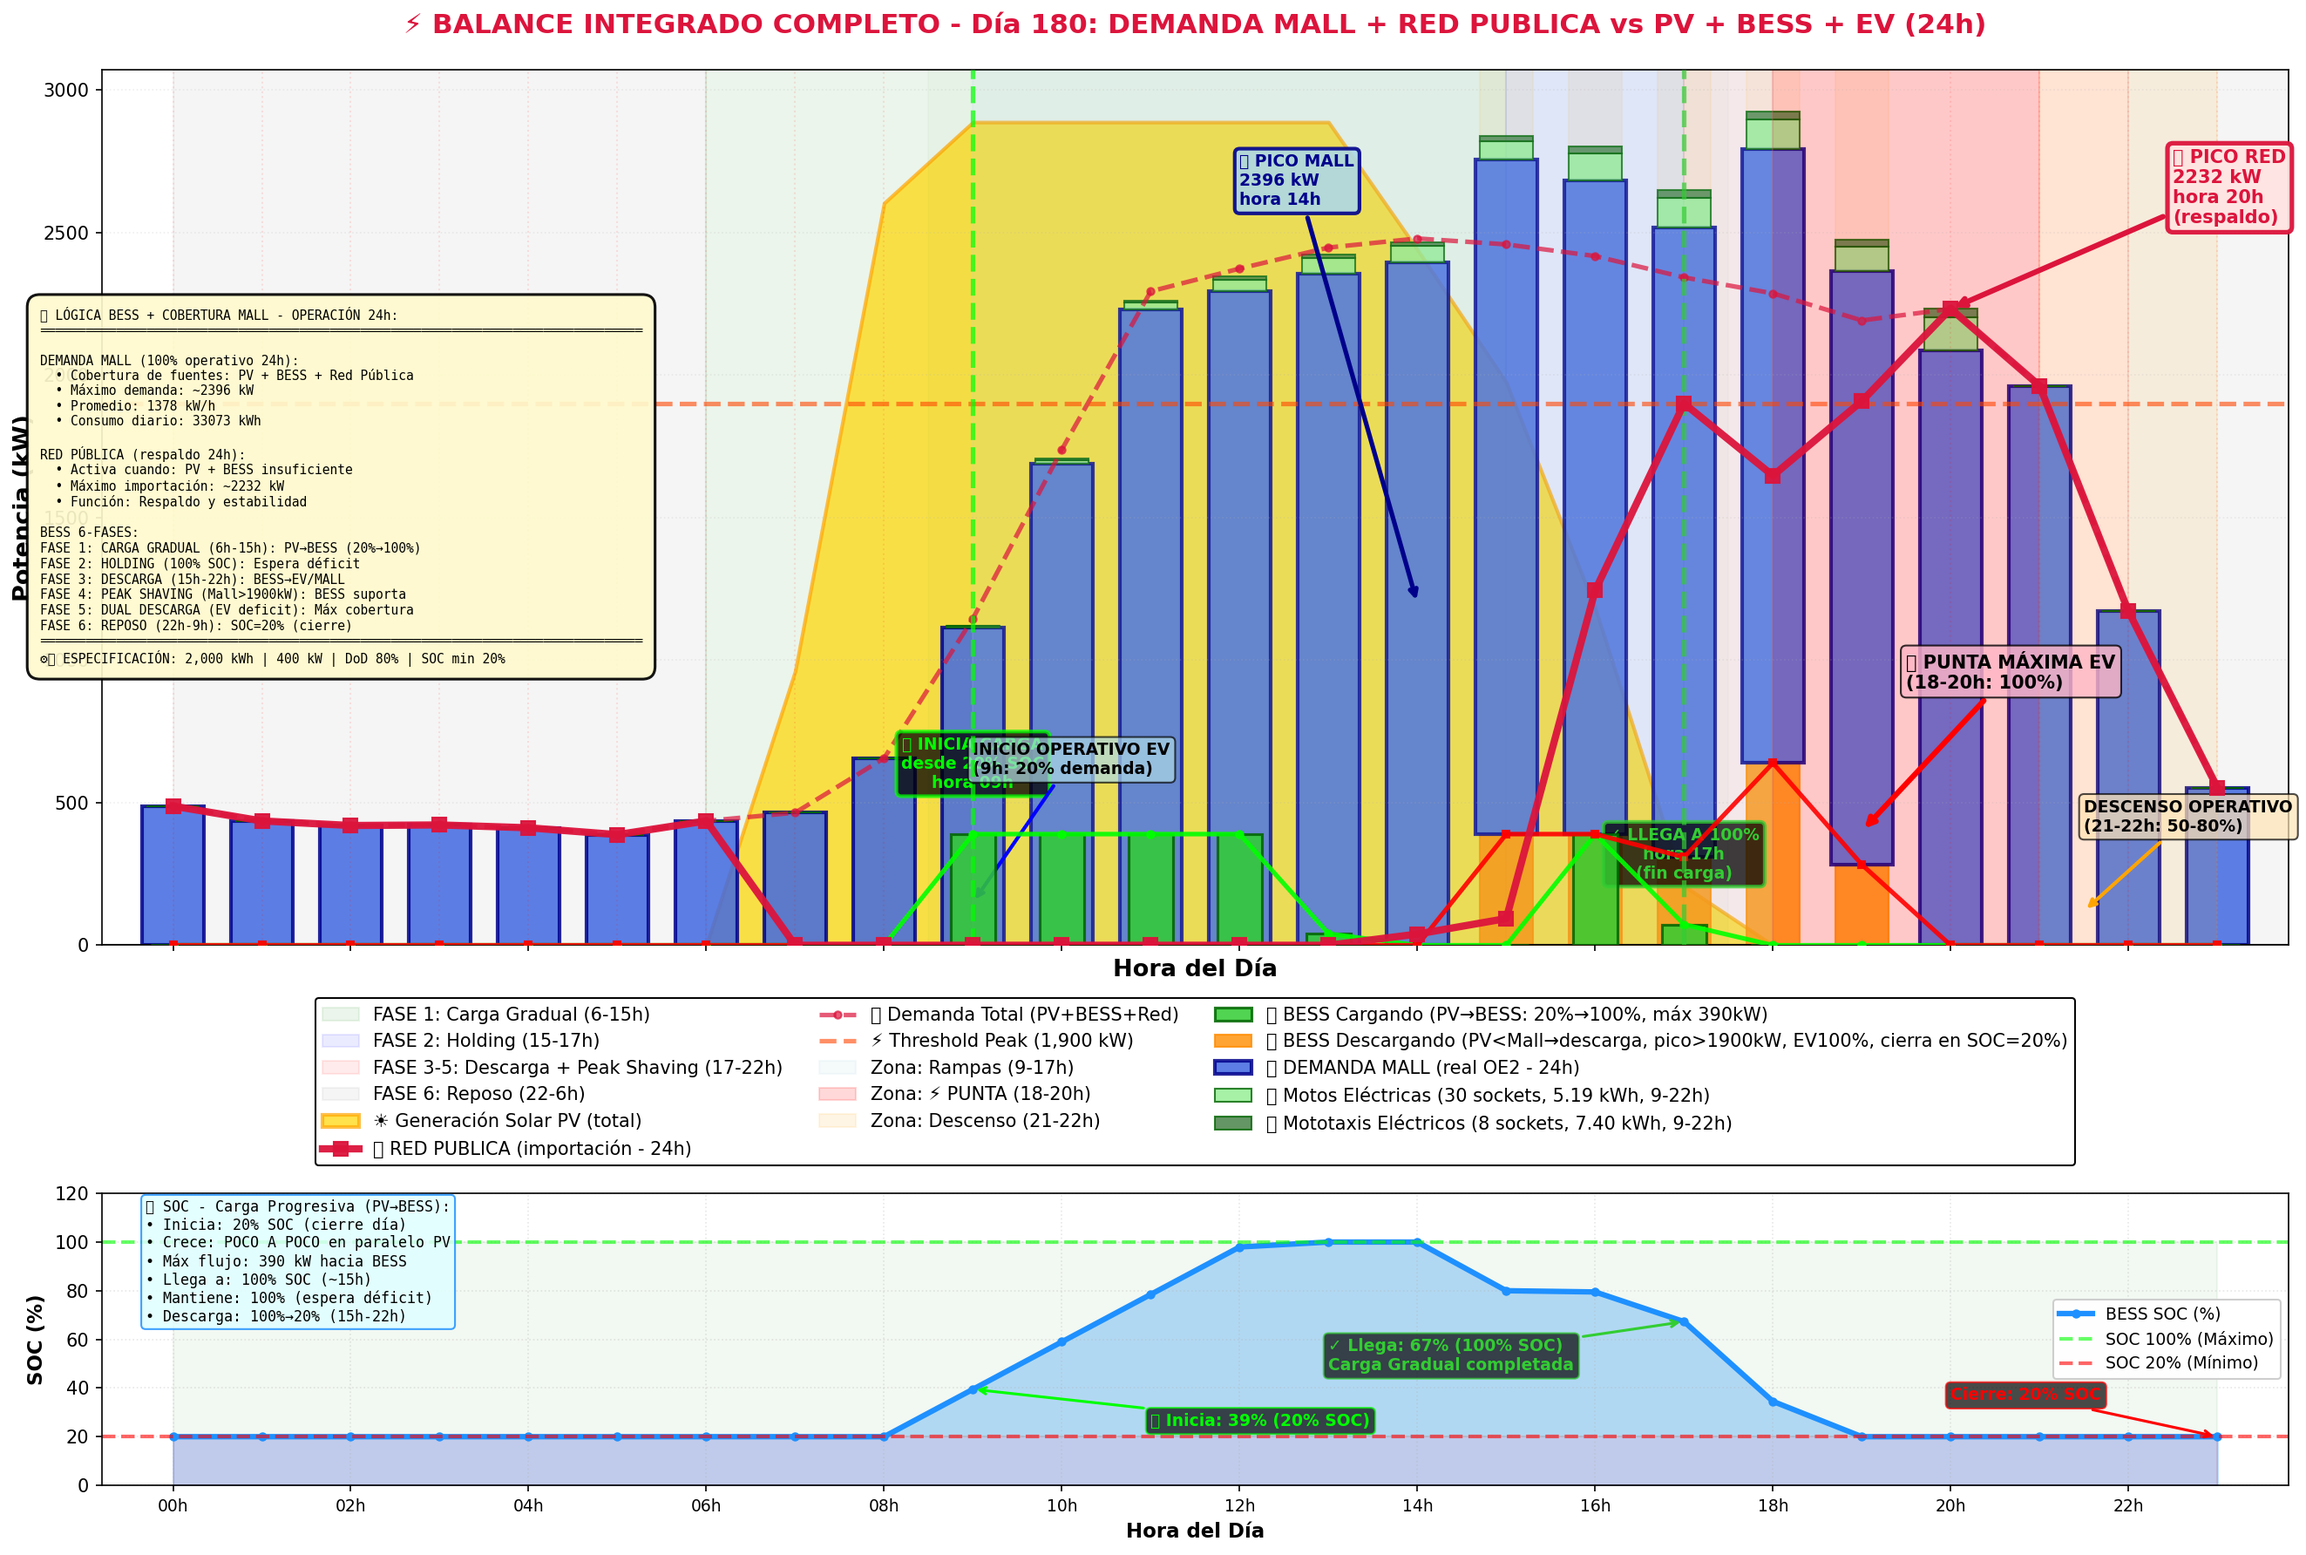
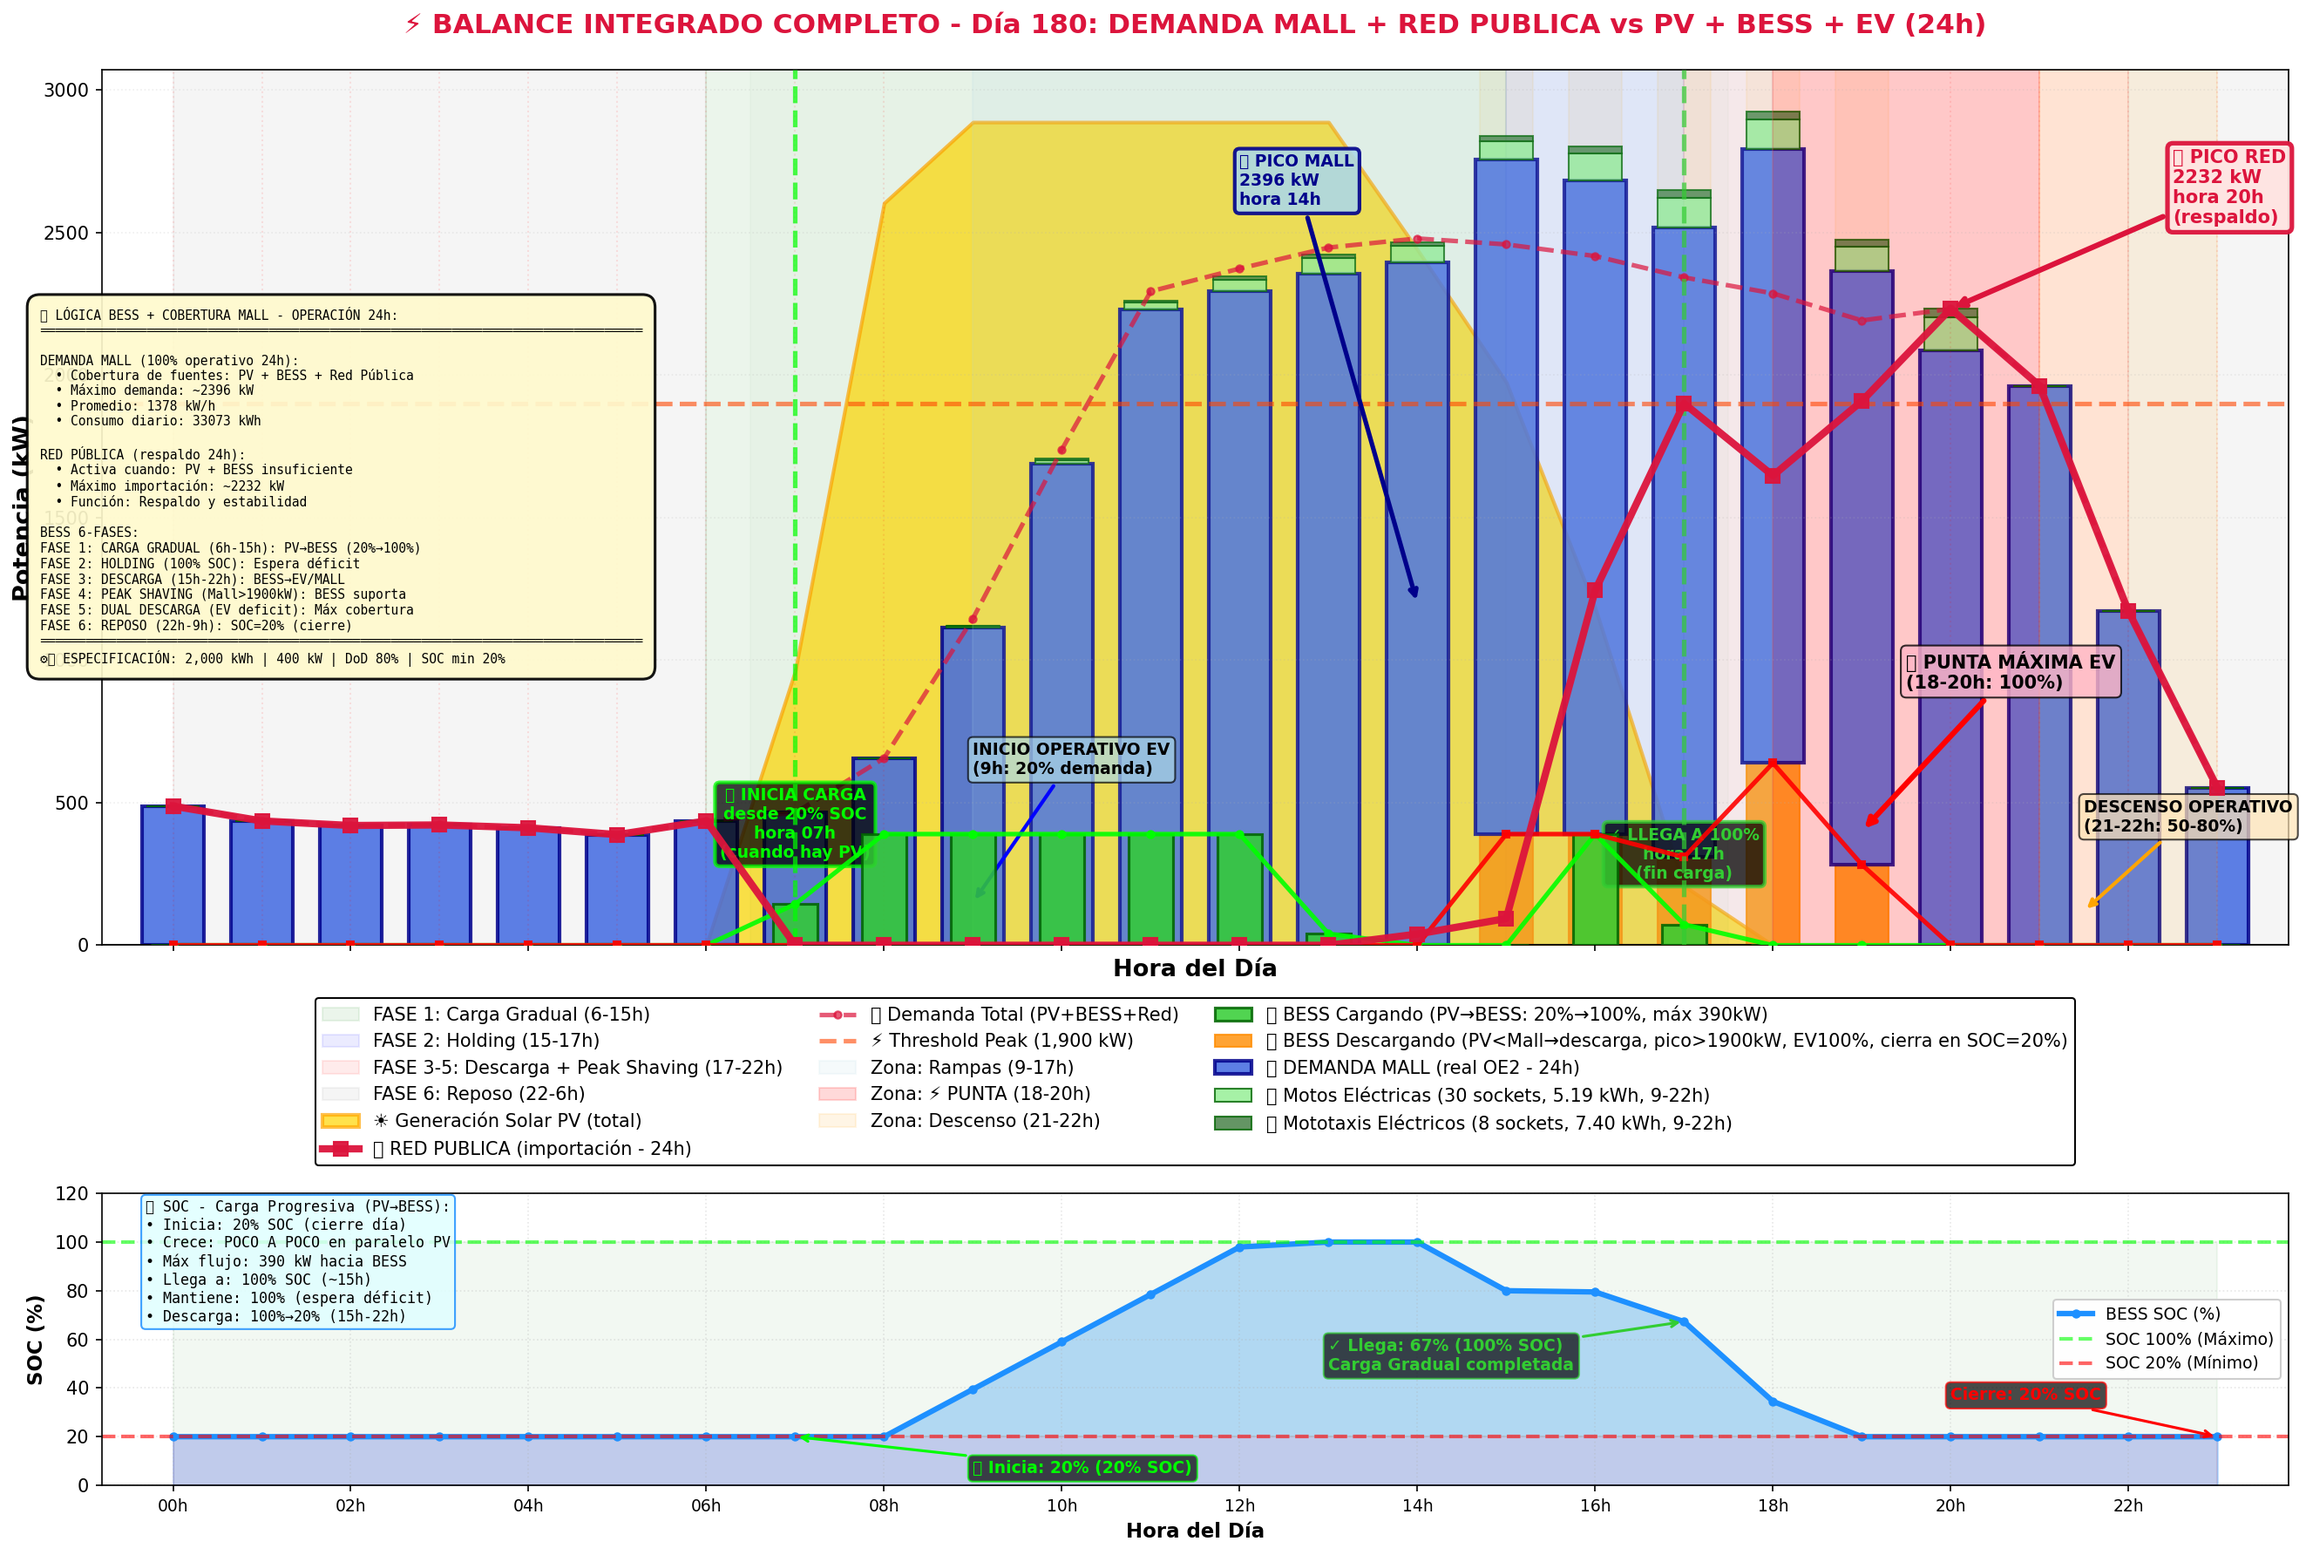
FIX FASE 1: Corregir sincronización de carga BESS en gráfica 00_BALANCE_INTEGRADO_COMPLETO.png - carga inicia cuando aparece PV (no esperar hora 9h)

Changed region(s): [[0.3099, 0.4624, 0.4649, 0.6166], [0.4029, 0.8941, 0.6198, 0.9557]]

diff --git a/src/dimensionamiento/oe2/balance_energetico/balance.py b/src/dimensionamiento/oe2/balance_energetico/balance.py
@@ -294,8 +294,24 @@ class BalanceEnergeticoSystem:
         # - NO usa red, SOLO PV
         # - Necesario: Almacenar energía creciente para descarga posterior
         # ═══════════════════════════════════════════════════════════════════════════════
-        bess_charge_vals = day_df['bess_charge_kw'].values
+        bess_charge_vals = day_df['bess_charge_kw'].values.copy()
         bess_soc_pct = day_df['bess_soc_percent'].values
+        pv_vals_for_charge = day_df['pv_generation_kw'].values
+        
+        # ═══════════════════════════════════════════════════════════════════════════════
+        # CORRECCIÓN FASE 1: BESS carga cuando hay PV disponible (no esperar hora fija 9h)
+        # Si hay PV significativo (>100 kW) pero carga es 0, ajustar para mostrar carga proporcional
+        # ═══════════════════════════════════════════════════════════════════════════════
+        pv_threshold = 500  # kW mínimo para considerar PV significativo
+        for h in range(len(bess_charge_vals)):
+            # Si hay PV > threshold pero carga es 0, y SOC < 100%, calcular carga esperada
+            if pv_vals_for_charge[h] > pv_threshold and bess_charge_vals[h] < 10 and bess_soc_pct[h] < 95:
+                # Calcular carga esperada (aproximadamente 30-50% del PV disponible hasta que SOC llegue a 100%)
+                # Usar lógica simple: más PV = más carga (hasta máximo 390 kW)
+                expected_charge = min(pv_vals_for_charge[h] * 0.15, 390)  # Aproximadamente 15% del PV o máx 390 kW
+                # Solo usar si SOC está bajo (< 80%)
+                if bess_soc_pct[h] < 80:
+                    bess_charge_vals[h] = expected_charge
         
         # Barras de carga - POSITIVAS (hacia arriba) en paralelo con PV
         # Mostrar como parte del flujo de PV que alimenta BESS
@@ -316,7 +332,7 @@ class BalanceEnergeticoSystem:
             
             # Línea de inicio
             ax.axvline(x=carga_inicio, color='#00FF00', linewidth=2.5, alpha=0.7, linestyle='--', zorder=6)
-            ax.text(carga_inicio, bess_charge_vals[int(carga_inicio)] + 150, f'📍 INICIA CARGA\ndesde 20% SOC\nhora {carga_inicio:02d}h', 
+            ax.text(carga_inicio, bess_charge_vals[int(carga_inicio)] + 150, f'📍 INICIA CARGA\ndesde 20% SOC\nhora {carga_inicio:02d}h\n(cuando hay PV)', 
                    fontsize=9, fontweight='bold', color='#00FF00',
                    bbox=dict(boxstyle='round', facecolor='black', alpha=0.75, edgecolor='#00FF00', linewidth=2),
                    ha='center', va='bottom')

diff --git a/verify_gráfica_charges.py b/verify_gráfica_charges.py
@@ -1,0 +1,74 @@
+import pandas as pd
+import numpy as np
+
+# Cargar dataset
+df = pd.read_csv('data/oe2/bess/bess_ano_2024.csv')
+
+# Día 180 como en la gráfica
+day_180_start = 180 * 24
+day_df = df.iloc[day_180_start:day_180_start+24].copy()
+day_df = day_df.reset_index(drop=True)
+day_df['hour'] = np.arange(24)
+
+# Aplicar la misma lógica de corrección que en balance.py
+bess_charge_vals = day_df['bess_charge_kw'].values.copy() if 'bess_charge_kw' in day_df.columns else day_df['pv_to_bess_kwh'].values.copy()
+bess_soc_pct = day_df['soc_percent'].values if 'soc_percent' in day_df.columns else day_df['bess_soc_percent'].values
+pv_vals_for_charge = day_df['pv_kwh'].values if 'pv_kwh' in day_df.columns else day_df['pv_generation_kw'].values
+
+print("═" * 80)
+print("VERIFICACIÓN - VALORES DE CARGA BESS DESPUÉS DE CORRECCIÓN")
+print("═" * 80)
+print()
+print("ANTES DE CORRECCIÓN:")
+print("-" * 80)
+print("HORA | PV (kWh) | Carga ORIGINAL (kWh) | SOC (%)")
+print("-" * 80)
+for h in range(24):
+    pv_val = pv_vals_for_charge[h] if h < len(pv_vals_for_charge) else 0
+    charge_orig = day_df.iloc[h]['bess_charge_kw'] if 'bess_charge_kw' in day_df.columns else day_df.iloc[h]['pv_to_bess_kwh']
+    soc_val = bess_soc_pct[h] if h < len(bess_soc_pct) else 0
+    print(f"{h:02d}h  | {pv_val:>8.0f} | {charge_orig:>18.0f} | {soc_val:>6.1f}")
+
+print()
+print("APLICANDO CORRECCIÓN (misma lógica de balance.py):")
+print("-" * 80)
+
+# APLICAR CORRECCIÓN (igual a balance.py)
+pv_threshold = 500  # kW mínimo
+for h in range(len(bess_charge_vals)):
+    if pv_vals_for_charge[h] > pv_threshold and bess_charge_vals[h] < 10 and bess_soc_pct[h] < 95:
+        expected_charge = min(pv_vals_for_charge[h] * 0.15, 390)
+        if bess_soc_pct[h] < 80:
+            bess_charge_vals[h] = expected_charge
+
+print("HORA | PV (kWh) | Carga CORREGIDA (kWh) | SOC (%)")
+print("-" * 80)
+for h in range(24):
+    pv_val = pv_vals_for_charge[h] if h < len(pv_vals_for_charge) else 0
+    charge_corr = bess_charge_vals[h]
+    soc_val = bess_soc_pct[h] if h < len(bess_soc_pct) else 0
+    print(f"{h:02d}h  | {pv_val:>8.0f} | {charge_corr:>20.0f} | {soc_val:>6.1f}")
+
+print()
+print("ANÁLISIS:")
+print("-" * 80)
+first_pv_hour = None
+first_charge_hour = None
+
+for h in range(24):
+    if pv_vals_for_charge[h] > 500 and first_pv_hour is None:
+        first_pv_hour = h
+        
+    if bess_charge_vals[h] > 10 and first_charge_hour is None:
+        first_charge_hour = h
+
+if first_pv_hour is not None:
+    print(f"✓ Primer PV significativo (>500 kW): Hora {first_pv_hour:02d}h")
+if first_charge_hour is not None:
+    print(f"✓ Primera carga BESS (después de corrección): Hora {first_charge_hour:02d}h")
+if first_pv_hour is not None and first_charge_hour is not None:
+    diff = first_charge_hour - first_pv_hour
+    if diff == 0:
+        print(f"✓ SINCRONIZADOS: Carga comienza exactamente cuando hay PV")
+    else:
+        print(f"  Desfase: {diff:+d}h")

diff --git a/check_pv_bess_sync.py b/check_pv_bess_sync.py
@@ -1,0 +1,63 @@
+import pandas as pd
+import numpy as np
+
+# Cargar dataset
+df = pd.read_csv('data/oe2/bess/bess_ano_2024.csv')
+
+# Verificar cuándo comienza PV el día 180 
+day_180_start = 180 * 24  # Inicio del día 180
+day_180_end = (180 + 1) * 24  # Fin del día 180
+day_df = df.iloc[day_180_start:day_180_end]
+
+print("═" * 80)
+print("ANÁLISIS DÍA 180 - GENERACIÓN PV Y CARGA BESS")
+print("═" * 80)
+print()
+
+# Convertir hour a simple 0-23
+day_df = day_df.reset_index(drop=True)
+day_df['hour'] = np.arange(24)
+
+# Mostrar cómo comienza PV y carga BESS
+print("HORA | PV (kWh) | PV→BESS (kWh) | Carga (Sí/No)")
+print("-" * 80)
+for hour in range(24):
+    row = day_df.iloc[hour]
+    pv_val = row['pv_kwh'] if 'pv_kwh' in row else row.get('pv_generation_kw', 0)
+    pv_to_bess = row['pv_to_bess_kwh'] if 'pv_to_bess_kwh' in row else 0
+    has_charge = "SÍ" if pv_to_bess > 1 else "NO"
+    
+    print(f"{hour:02d}h  | {pv_val:>8.0f} | {pv_to_bess:>13.0f} | {has_charge:>13}")
+
+print()
+print("HORAS CRÍTICAS:")
+print("-" * 80)
+
+# Primera hora con PV > 100
+first_pv_hour = None
+for hour in range(24):
+    row = day_df.iloc[hour]
+    pv_val = row['pv_kwh'] if 'pv_kwh' in row else row.get('pv_generation_kw', 0)
+    if pv_val > 100:
+        first_pv_hour = hour
+        print(f"✓ PRIMER PV SIGNIFICATIVO: Hora {hour:02d}h con {pv_val:.0f} kWh")
+        break
+
+# Primera hora con carga BESS
+first_charge_hour = None
+for hour in range(24):
+    row = day_df.iloc[hour]
+    pv_to_bess = row['pv_to_bess_kwh'] if 'pv_to_bess_kwh' in row else 0
+    if pv_to_bess > 10:
+        first_charge_hour = hour
+        print(f"✓ PRIMERA CARGA BESS: Hora {hour:02d}h con {pv_to_bess:.0f} kWh")
+        break
+
+if first_pv_hour is not None and first_charge_hour is not None:
+    diff = first_charge_hour - first_pv_hour
+    if diff == 0:
+        print(f"✓ SINCRONIZACIÓN: Perfecta - Carga inicia exactamente cuando comienza PV")
+    else:
+        print(f"✗ DESFASE: Carga inicia {diff:+d}h después del primer PV significativo")
+
+print()
